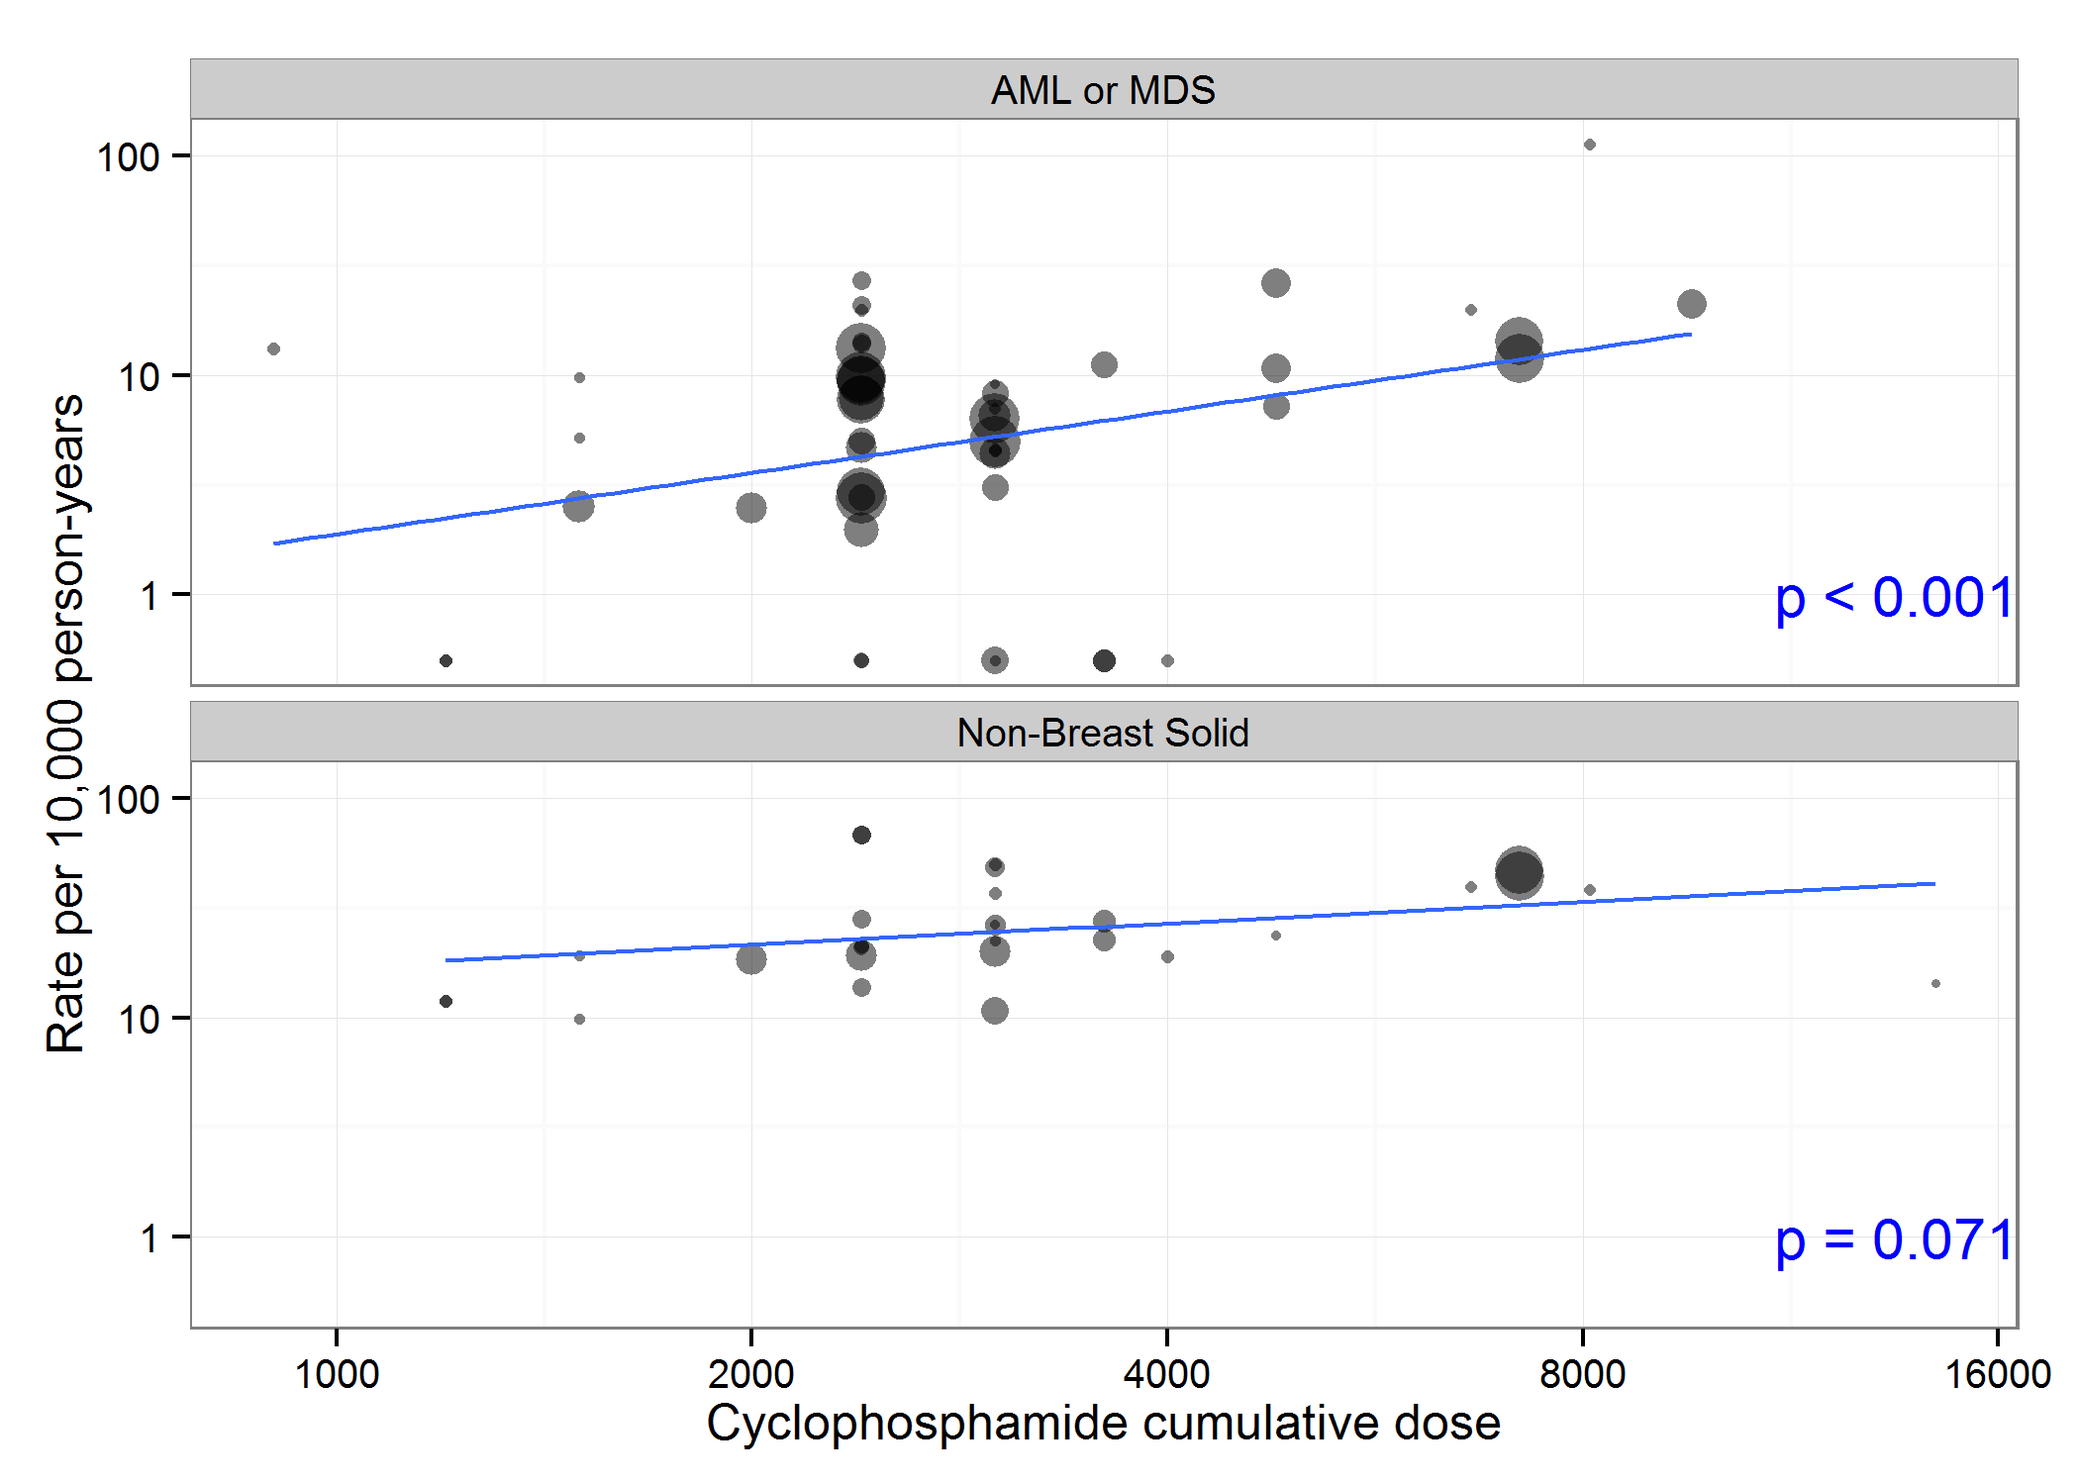
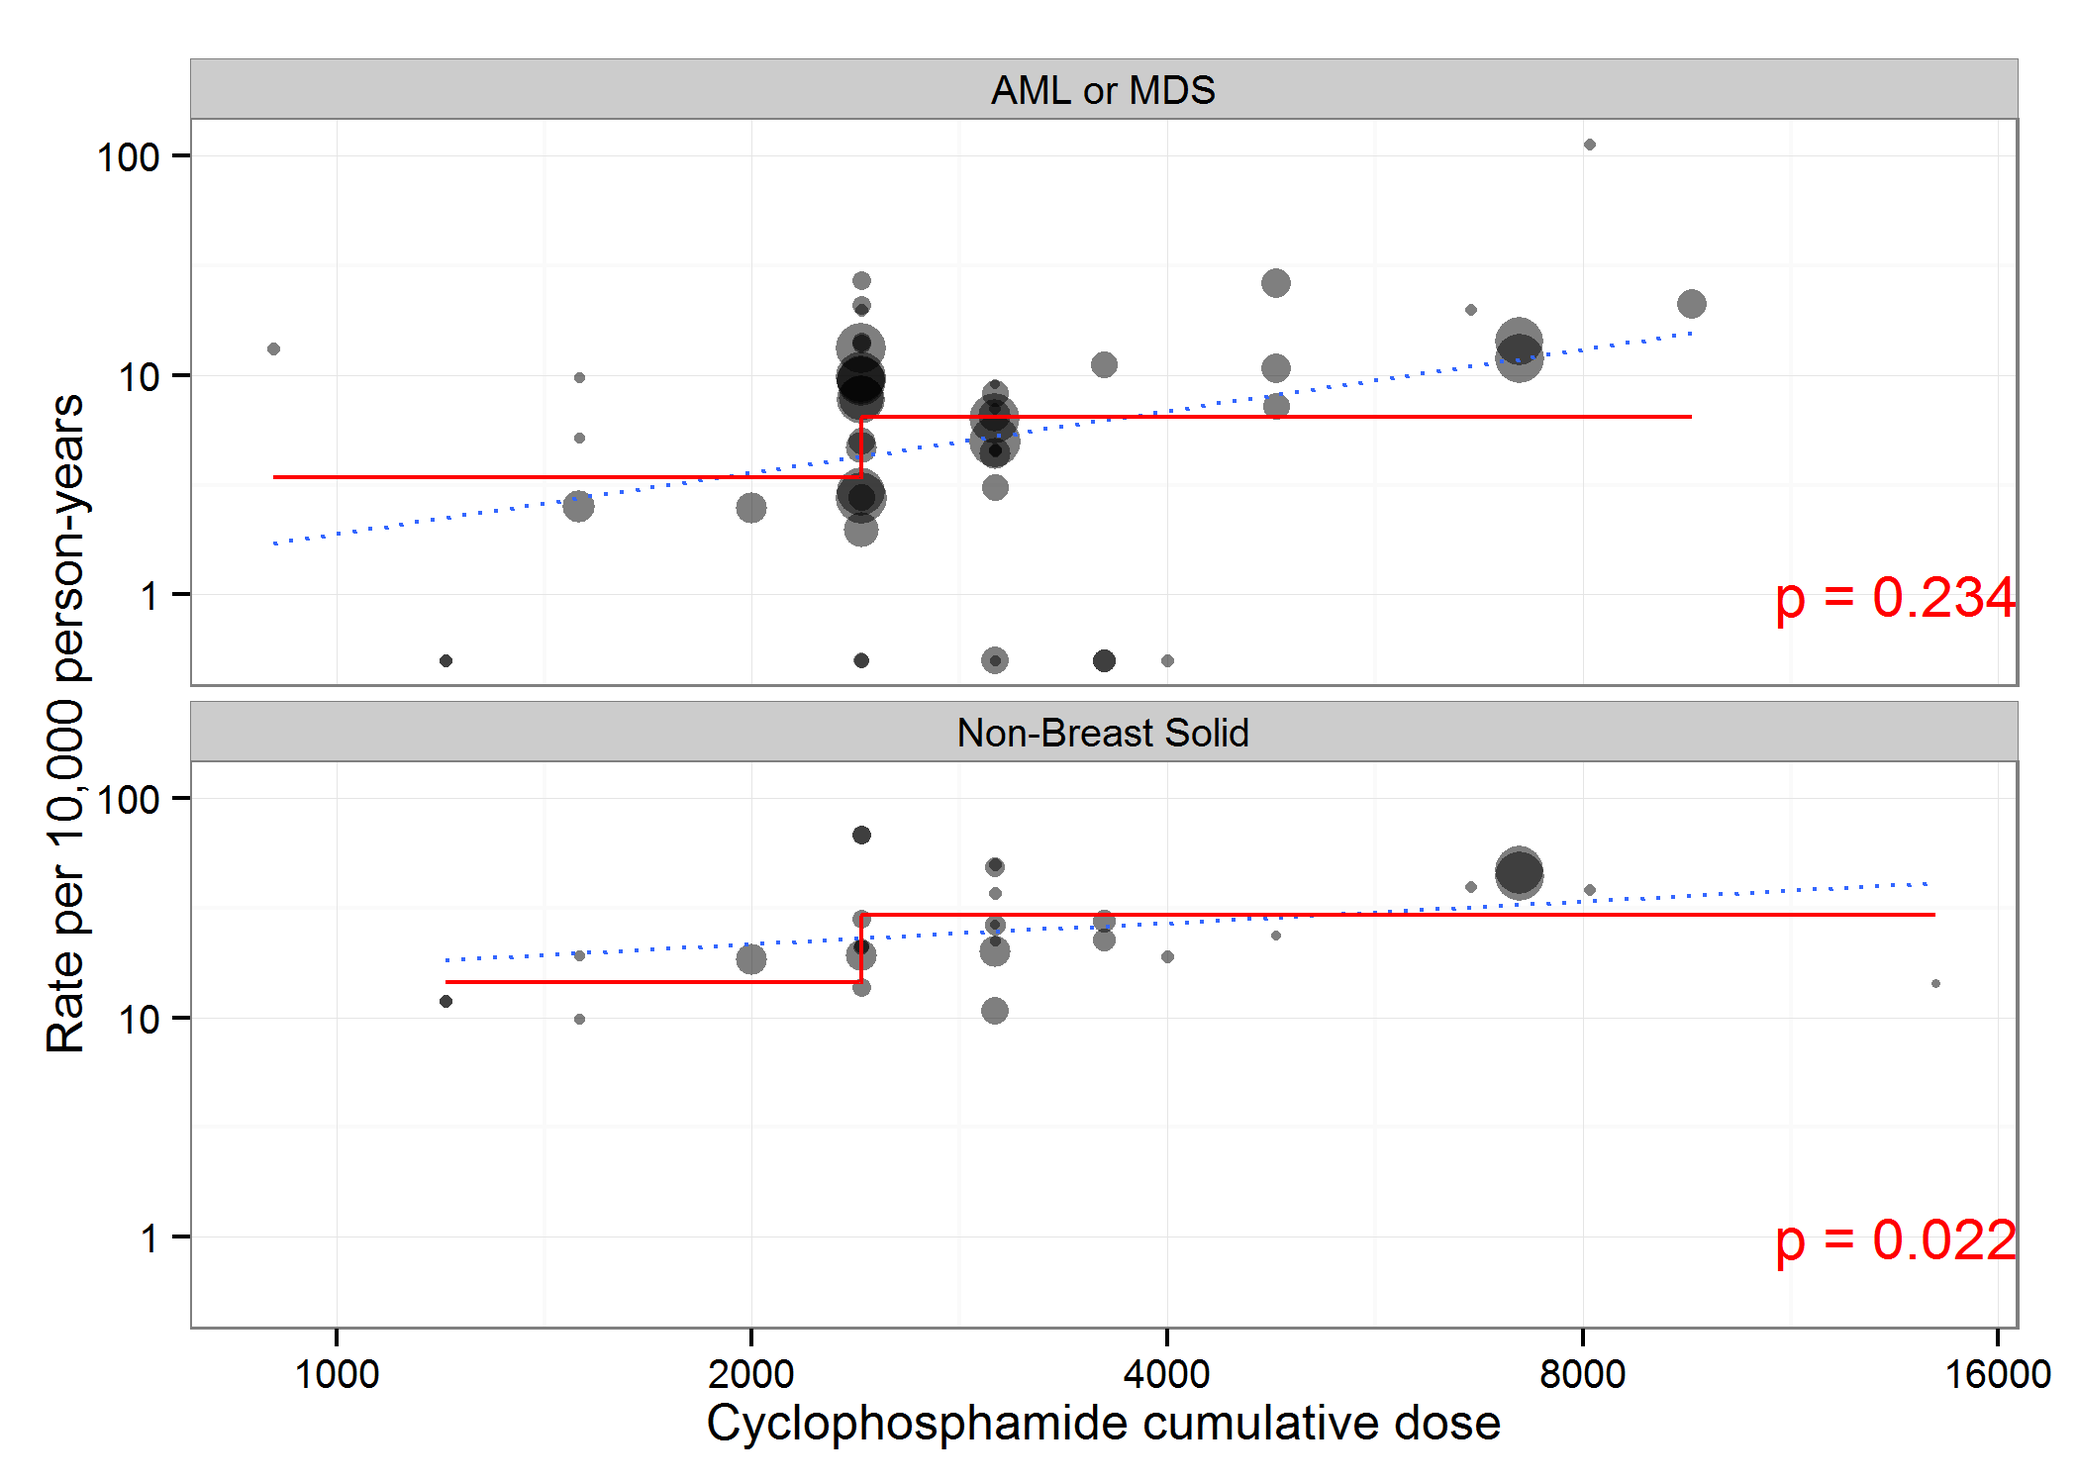
Dichotomize the cumulative dose moderator (issue #29)

diff --git a/SecondaryMalignancies/metaregSecMal.html b/SecondaryMalignancies/metaregSecMal.html
@@ -69,7 +69,7 @@ img {
 <div id="header">
 <h1 class="title">Secondary Malignancies</h1>
 <h4 class="author"><em><a href="http://careers.stackoverflow.com/benjaminchan">Benjamin Chan</a></em></h4>
-<h4 class="date"><em>2016-05-31 13:15:20</em></h4>
+<h4 class="date"><em>2016-05-31 14:04:46</em></h4>
 </div>
 
 <div id="TOC">
@@ -258,18 +258,18 @@ D &lt;- D[, malAMLOrMDSTotal := malAMLOrMDSTotal]
 D &lt;- D[is.na(malAML) &amp; is.na(malMDS) &amp; is.na(malAMLOrMDS), malAMLOrMDSTotal := NA]
 D[s, .(rowid, malAML, malMDS, malAMLOrMDS, malAMLOrMDSTotal)]</code></pre>
 <pre><code>##     rowid malAML malMDS malAMLOrMDS malAMLOrMDSTotal
-##  1:    83     NA     NA           5                5
-##  2:    78     NA     NA          NA               NA
-##  3:    95      0     NA          NA                0
-##  4:    90     NA     NA          NA               NA
-##  5:    89     NA     NA          NA               NA
-##  6:    52      1      1          NA                2
-##  7:    59      9      4          NA               13
-##  8:    34      0      1          NA                1
-##  9:    27     NA     NA          NA               NA
+##  1:    97     NA     NA          NA               NA
+##  2:    86     NA     NA           5                5
+##  3:    39      0     NA          NA                0
+##  4:    75      0      0          NA                0
+##  5:    87     NA     NA           8                8
+##  6:    45     NA     NA           0                0
+##  7:    63     NA     NA          NA               NA
+##  8:    77     NA     NA          NA               NA
+##  9:    88     NA     NA          11               11
 ## 10:    38      1     NA          NA                1
-## 11:    49     NA     NA          NA               NA
-## 12:    73     NA     NA           2                2</code></pre>
+## 11:    59      9      4          NA               13
+## 12:    20      0      0          NA                0</code></pre>
 <p>Remove text from <code>nITT</code> column.</p>
 <pre class="r"><code>D &lt;- D[authorYear == &quot;Misset (1996)&quot; &amp; arm == 2, nITT := &quot;137&quot;]
 D &lt;- D[authorYear == &quot;Fumoleu (2003)&quot; &amp; arm == 1, nITT := &quot;210&quot;]
@@ -1299,7 +1299,7 @@ write.table(summaryRegimens,
 <pre class="r"><code>metareg &lt;- function (D) {
   require(metafor)
   D &lt;- D[!(is.na(x) | is.na(rate) | is.na(nITT) | is.na(malType))]
-  M &lt;- rma.glmm(xi = malN, ti = py, mods = log10(x), measure=&quot;IRLN&quot;, data=D)
+  M &lt;- rma.glmm(xi = malN, ti = py, mods = xHighDose, measure=&quot;IRLN&quot;, data=D)
   pvalue &lt;- M$pval[which(row.names(M$b) == &quot;mods&quot;)]
   if (pvalue &lt; 0.001) {
     pvalue &lt;- &quot;p &lt; 0.001&quot;
@@ -1309,17 +1309,22 @@ write.table(summaryRegimens,
   list(rma.glmm = M,
        pvalue = pvalue)
 }
-plotreg &lt;- function (D, xlab, xbreaks, text) {
+plotreg &lt;- function (D, xlab, xbreaks, text, yhat) {
   require(ggplot2)
   require(tools)
   D &lt;- D[!(is.na(x) | is.na(rate) | is.na(nITT) | is.na(malType))]
   D &lt;- D[malType %in% c(&quot;AML or MDS&quot;, &quot;Non-Breast Solid&quot;)]
   D &lt;- D[, malType := droplevels(malType)]
+  steps &lt;- merge(D[, .(min = min(x), max = max(x)), .(malType, xHighDose)],
+                 yhat,
+                 by=c(&quot;malType&quot;, &quot;xHighDose&quot;))
+  steps &lt;- melt(steps, id.vars=c(&quot;malType&quot;, &quot;xHighDose&quot;, &quot;yhat&quot;), measure.vars=c(&quot;min&quot;, &quot;max&quot;), value.name=&quot;x&quot;)
   G &lt;- ggplot(D, aes(x=x, y=rate + 1/2, size=nITT / min(nITT, na.rm=TRUE), group=malType))
   G &lt;- G + geom_point(alpha=1/2)
-  G &lt;- G + geom_smooth(method=&quot;lm&quot;, se=FALSE)
+  G &lt;- G + geom_smooth(method=&quot;lm&quot;, se=FALSE, linetype=&quot;dotted&quot;)
+  G &lt;- G + geom_step(data=steps, aes(x=x, y=yhat, group=malType), inherit.aes=FALSE, color=&quot;red&quot;)
   G &lt;- G + geom_text(data=data.frame(x=Inf, y=1, label=text, malType=levels(D[, malType])),
-                     aes(x, y, label=label, group=malType), inherit.aes=FALSE, hjust=1, color=&quot;blue&quot;)
+                     aes(x, y, label=label, group=malType), inherit.aes=FALSE, hjust=1, color=&quot;red&quot;)
   G &lt;- G + scale_x_log10(xlab, breaks=xbreaks)
   G &lt;- G + scale_y_log10(&quot;Rate per 10,000 person-years&quot;)
   G &lt;- G + facet_wrap(~ malType, nrow=2, ncol=1)
@@ -1330,9 +1335,17 @@ plotreg &lt;- function (D, xlab, xbreaks, text) {
   write.csv(D, file=sprintf(&quot;%s.csv&quot;, filename), row.names=FALSE)
   show(file.info(c(sprintf(&quot;%s.png&quot;, filename), sprintf(&quot;%s.csv&quot;, filename)))[c(&quot;size&quot;, &quot;mtime&quot;)])
   G
+}
+invLogit &lt;- function (x) {
+  exp(x) / (1 + exp(x))
 }</code></pre>
 <div id="cyclophosphamide" class="section level2">
 <h2><span class="header-section-number">4.1</span> Cyclophosphamide</h2>
+<p>Dichotomoize cumulative dose</p>
+<ul>
+<li><span class="math inline">\(\le 2400\)</span></li>
+<li><span class="math inline">\(\gt 2400\)</span></li>
+</ul>
 <pre class="r"><code>library(metafor)</code></pre>
 <pre><code>## Loading required package: Matrix
 ## Loading 'metafor' package (version 1.9-8). For an overview 
@@ -1342,6 +1355,7 @@ plotreg &lt;- function (D, xlab, xbreaks, text) {
            authorYear,
            isCyclo,
            x = cyclophosphamideCumulDose,
+           xHighDose = cyclophosphamideCumulDose &gt;= 2400,
            nITT,
            medianFU,
            malType,
@@ -1351,14 +1365,21 @@ plotreg &lt;- function (D, xlab, xbreaks, text) {
 M1 &lt;- metareg(D2[malType == &quot;AML or MDS&quot;      ])
 M2 &lt;- metareg(D2[malType == &quot;Non-Breast Solid&quot;])
 pvalues &lt;- c(M1$pvalue, M2$pvalue)
-plotreg(D2, &quot;Cyclophosphamide cumulative dose&quot;, 1000 * c(0.5, 1, 2, 4, 8, 16), pvalues)</code></pre>
+yhat1 &lt;- unique(data.table(malType = &quot;AML or MDS&quot;,
+                           xHighDose = as.logical(M1$rma.glmm$X[, &quot;mods&quot;]),
+                           yhat = invLogit(predict(M1$rma.glmm)[[&quot;pred&quot;]]) * 10000))
+yhat2 &lt;- unique(data.table(malType = &quot;Non-Breast Solid&quot;,
+                           xHighDose = as.logical(M2$rma.glmm$X[, &quot;mods&quot;]),
+                           yhat = invLogit(predict(M2$rma.glmm)[[&quot;pred&quot;]]) * 10000))
+yhat &lt;- rbind(yhat1, yhat2)
+plotreg(D2, &quot;Cyclophosphamide cumulative dose&quot;, 1000 * c(0.5, 1, 2, 4, 8, 16), pvalues, yhat)</code></pre>
 <pre><code>## Loading required package: ggplot2
 ## Loading required package: tools
 ## Saving 7 x 5 in image</code></pre>
 <pre><code>##                                     size               mtime
-## CyclophosphamideCumulativeDose.png 43644 2016-05-31 13:15:24
-## CyclophosphamideCumulativeDose.csv  6822 2016-05-31 13:15:24</code></pre>
[1 lines of base64/hex data omitted]
+## CyclophosphamideCumulativeDose.png 52922 2016-05-31 14:04:50
+## CyclophosphamideCumulativeDose.csv  7241 2016-05-31 14:04:50</code></pre>
[1 lines of base64/hex data omitted]
 </div>
 <div id="anthracycline" class="section level2">
 <h2><span class="header-section-number">4.2</span> Anthracycline</h2>
@@ -1378,11 +1399,6 @@ M1 &lt;- metareg(D2[malType == &quot;AML or MDS&quot;      ])
 M2 &lt;- metareg(D2[malType == &quot;Non-Breast Solid&quot;])
 pvalues &lt;- c(M1$pvalue, M2$pvalue)
 plotreg(D2, &quot;Anthracycline cumulative dose&quot;, 100 * c(1, 2, 4, 8), pvalues)</code></pre>
-<pre><code>## Saving 7 x 5 in image</code></pre>
-<pre><code>##                                  size               mtime
-## AnthracyclineCumulativeDose.png 41946 2016-05-31 13:15:25
-## AnthracyclineCumulativeDose.csv  7552 2016-05-31 13:15:25</code></pre>
[1 lines of base64/hex data omitted]
 </div>
 <div id="taxane" class="section level2">
 <h2><span class="header-section-number">4.3</span> Taxane</h2>
@@ -1402,11 +1418,6 @@ M1 &lt;- metareg(D2[malType == &quot;AML or MDS&quot;      ])
 M2 &lt;- metareg(D2[malType == &quot;Non-Breast Solid&quot;])
 pvalues &lt;- c(M1$pvalue, M2$pvalue)
 plotreg(D2, &quot;Taxane cumulative dose&quot;, 100 * c(1, 2, 4, 8), pvalues)</code></pre>
-<pre><code>## Saving 7 x 5 in image</code></pre>
-<pre><code>##                           size               mtime
-## TaxaneCumulativeDose.png 36670 2016-05-31 13:15:26
-## TaxaneCumulativeDose.csv  2479 2016-05-31 13:15:26</code></pre>
[1 lines of base64/hex data omitted]
 </div>
 <div id="fluoroucil" class="section level2">
 <h2><span class="header-section-number">4.4</span> Fluoroucil</h2>
@@ -1426,11 +1437,6 @@ M1 &lt;- metareg(D2[malType == &quot;AML or MDS&quot;      ])
 M2 &lt;- metareg(D2[malType == &quot;Non-Breast Solid&quot;])
 pvalues &lt;- c(M1$pvalue, M2$pvalue)
 plotreg(D2, &quot;Fluoroucil cumulative dose&quot;, 1000 * c(0.5, 1, 2, 4, 8, 16), pvalues)</code></pre>
-<pre><code>## Saving 7 x 5 in image</code></pre>
-<pre><code>##                               size               mtime
-## FluoroucilCumulativeDose.png 41358 2016-05-31 13:15:28
-## FluoroucilCumulativeDose.csv  2750 2016-05-31 13:15:28</code></pre>
[1 lines of base64/hex data omitted]
 </div>
 </div>
 <div id="more-stuff-im-not-sure-i-need" class="section level1">

diff --git a/SecondaryMalignancies/metaregSecMal.md b/SecondaryMalignancies/metaregSecMal.md
@@ -247,18 +247,18 @@ D[s, .(rowid, malAML, malMDS, malAMLOrMDS, malAMLOrMDSTotal)]
 
 ```
 ##     rowid malAML malMDS malAMLOrMDS malAMLOrMDSTotal
-##  1:    83     NA     NA           5                5
-##  2:    78     NA     NA          NA               NA
-##  3:    95      0     NA          NA                0
-##  4:    90     NA     NA          NA               NA
-##  5:    89     NA     NA          NA               NA
-##  6:    52      1      1          NA                2
-##  7:    59      9      4          NA               13
-##  8:    34      0      1          NA                1
-##  9:    27     NA     NA          NA               NA
+##  1:    97     NA     NA          NA               NA
+##  2:    86     NA     NA           5                5
+##  3:    39      0     NA          NA                0
+##  4:    75      0      0          NA                0
+##  5:    87     NA     NA           8                8
+##  6:    45     NA     NA           0                0
+##  7:    63     NA     NA          NA               NA
+##  8:    77     NA     NA          NA               NA
+##  9:    88     NA     NA          11               11
 ## 10:    38      1     NA          NA                1
-## 11:    49     NA     NA          NA               NA
-## 12:    73     NA     NA           2                2
+## 11:    59      9      4          NA               13
+## 12:    20      0      0          NA                0
 ```
 
 Remove text from `nITT` column.
@@ -1370,7 +1370,7 @@ Define meta-regression functions.
 metareg <- function (D) {
   require(metafor)
   D <- D[!(is.na(x) | is.na(rate) | is.na(nITT) | is.na(malType))]
-  M <- rma.glmm(xi = malN, ti = py, mods = log10(x), measure="IRLN", data=D)
+  M <- rma.glmm(xi = malN, ti = py, mods = xHighDose, measure="IRLN", data=D)
   pvalue <- M$pval[which(row.names(M$b) == "mods")]
   if (pvalue < 0.001) {
     pvalue <- "p < 0.001"
@@ -1380,17 +1380,22 @@ metareg <- function (D) {
   list(rma.glmm = M,
        pvalue = pvalue)
 }
-plotreg <- function (D, xlab, xbreaks, text) {
+plotreg <- function (D, xlab, xbreaks, text, yhat) {
   require(ggplot2)
   require(tools)
   D <- D[!(is.na(x) | is.na(rate) | is.na(nITT) | is.na(malType))]
   D <- D[malType %in% c("AML or MDS", "Non-Breast Solid")]
   D <- D[, malType := droplevels(malType)]
+  steps <- merge(D[, .(min = min(x), max = max(x)), .(malType, xHighDose)],
+                 yhat,
+                 by=c("malType", "xHighDose"))
+  steps <- melt(steps, id.vars=c("malType", "xHighDose", "yhat"), measure.vars=c("min", "max"), value.name="x")
   G <- ggplot(D, aes(x=x, y=rate + 1/2, size=nITT / min(nITT, na.rm=TRUE), group=malType))
   G <- G + geom_point(alpha=1/2)
-  G <- G + geom_smooth(method="lm", se=FALSE)
+  G <- G + geom_smooth(method="lm", se=FALSE, linetype="dotted")
+  G <- G + geom_step(data=steps, aes(x=x, y=yhat, group=malType), inherit.aes=FALSE, color="red")
   G <- G + geom_text(data=data.frame(x=Inf, y=1, label=text, malType=levels(D[, malType])),
-                     aes(x, y, label=label, group=malType), inherit.aes=FALSE, hjust=1, color="blue")
+                     aes(x, y, label=label, group=malType), inherit.aes=FALSE, hjust=1, color="red")
   G <- G + scale_x_log10(xlab, breaks=xbreaks)
   G <- G + scale_y_log10("Rate per 10,000 person-years")
   G <- G + facet_wrap(~ malType, nrow=2, ncol=1)
@@ -1402,9 +1407,17 @@ plotreg <- function (D, xlab, xbreaks, text) {
   show(file.info(c(sprintf("%s.png", filename), sprintf("%s.csv", filename)))[c("size", "mtime")])
   G
 }
+invLogit <- function (x) {
+  exp(x) / (1 + exp(x))
+}
 ```
 
 ## Cyclophosphamide
+
+Dichotomoize cumulative dose
+
+* $\le 2400$
+* $\gt 2400$
 
 
 ```r
@@ -1423,6 +1436,7 @@ D2 <- D1[isCyclo == TRUE,
            authorYear,
            isCyclo,
            x = cyclophosphamideCumulDose,
+           xHighDose = cyclophosphamideCumulDose >= 2400,
            nITT,
            medianFU,
            malType,
@@ -1432,7 +1446,14 @@ D2 <- D1[isCyclo == TRUE,
 M1 <- metareg(D2[malType == "AML or MDS"      ])
 M2 <- metareg(D2[malType == "Non-Breast Solid"])
 pvalues <- c(M1$pvalue, M2$pvalue)
-plotreg(D2, "Cyclophosphamide cumulative dose", 1000 * c(0.5, 1, 2, 4, 8, 16), pvalues)
+yhat1 <- unique(data.table(malType = "AML or MDS",
+                           xHighDose = as.logical(M1$rma.glmm$X[, "mods"]),
+                           yhat = invLogit(predict(M1$rma.glmm)[["pred"]]) * 10000))
+yhat2 <- unique(data.table(malType = "Non-Breast Solid",
+                           xHighDose = as.logical(M2$rma.glmm$X[, "mods"]),
+                           yhat = invLogit(predict(M2$rma.glmm)[["pred"]]) * 10000))
+yhat <- rbind(yhat1, yhat2)
+plotreg(D2, "Cyclophosphamide cumulative dose", 1000 * c(0.5, 1, 2, 4, 8, 16), pvalues, yhat)
 ```
 
 ```
@@ -1443,8 +1464,8 @@ plotreg(D2, "Cyclophosphamide cumulative dose", 1000 * c(0.5, 1, 2, 4, 8, 16), p
 
 ```
 ##                                     size               mtime
-## CyclophosphamideCumulativeDose.png 43644 2016-05-31 13:15:24
-## CyclophosphamideCumulativeDose.csv  6822 2016-05-31 13:15:24
+## CyclophosphamideCumulativeDose.png 52922 2016-05-31 14:04:50
+## CyclophosphamideCumulativeDose.csv  7241 2016-05-31 14:04:50
 ```
 
 ![](metaregSecMal_files/figure-html/unnamed-chunk-16-1.png) 
@@ -1472,18 +1493,6 @@ pvalues <- c(M1$pvalue, M2$pvalue)
 plotreg(D2, "Anthracycline cumulative dose", 100 * c(1, 2, 4, 8), pvalues)
 ```
 
-```
-## Saving 7 x 5 in image
-```
-
-```
-##                                  size               mtime
-## AnthracyclineCumulativeDose.png 41946 2016-05-31 13:15:25
-## AnthracyclineCumulativeDose.csv  7552 2016-05-31 13:15:25
-```
-
-![](metaregSecMal_files/figure-html/unnamed-chunk-17-1.png) 
-
 
 ## Taxane
 
@@ -1507,18 +1516,6 @@ pvalues <- c(M1$pvalue, M2$pvalue)
 plotreg(D2, "Taxane cumulative dose", 100 * c(1, 2, 4, 8), pvalues)
 ```
 
-```
-## Saving 7 x 5 in image
-```
-
-```
-##                           size               mtime
-## TaxaneCumulativeDose.png 36670 2016-05-31 13:15:26
-## TaxaneCumulativeDose.csv  2479 2016-05-31 13:15:26
-```
-
-![](metaregSecMal_files/figure-html/unnamed-chunk-18-1.png) 
-
 
 ## Fluoroucil
 
@@ -1541,18 +1538,6 @@ M2 <- metareg(D2[malType == "Non-Breast Solid"])
 pvalues <- c(M1$pvalue, M2$pvalue)
 plotreg(D2, "Fluoroucil cumulative dose", 1000 * c(0.5, 1, 2, 4, 8, 16), pvalues)
 ```
-
-```
-## Saving 7 x 5 in image
-```
-
-```
-##                               size               mtime
-## FluoroucilCumulativeDose.png 41358 2016-05-31 13:15:28
-## FluoroucilCumulativeDose.csv  2750 2016-05-31 13:15:28
-```
-
-![](metaregSecMal_files/figure-html/unnamed-chunk-19-1.png) 
 
 
 
